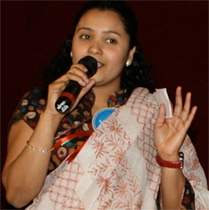
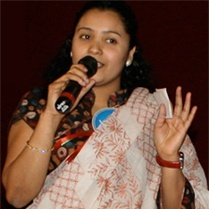
update Know us

diff --git a/_pages/know_us.md b/_pages/know_us.md
@@ -16,7 +16,7 @@ links:
 
 ## Founder
 
-![Roshan Jacob](/images/founder.jpg)
+![Roshan Jacob](/images/founder.webp){:height="217px" width="144px"}
 
 <em>Roshan Jacob</em>
 
@@ -31,7 +31,7 @@ His educational background and several years in the hospital industry, helped hi
 
 ## Co-Founder
 
-![Soumya Lakshmi](/images/co_founder.jpg)
+![Soumya Lakshmi](/images/co_founder.webp){:height="209px" width="209px"}
 
 <em>Soumya Lakshmi</em>
 
